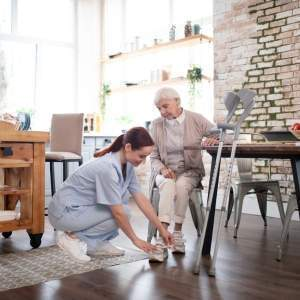
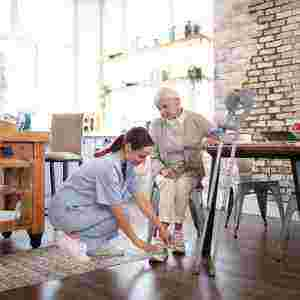
img  compress

diff --git a/compress.py b/compress.py
@@ -68,9 +68,9 @@ def compress_images(
 if __name__ == "__main__":
     # Example usage
     compress_images(
-        input_folder="/assets/Orthopedist.png",
-        output_folder="/assets/Orthopedist.png",  # set None to overwrite
-        quality=15,
+        input_folder="healthcare",
+        output_folder="healthcare",  # set None to overwrite
+        quality=10,
         max_width=1920,
         max_height=1080,
         keep_format=True
